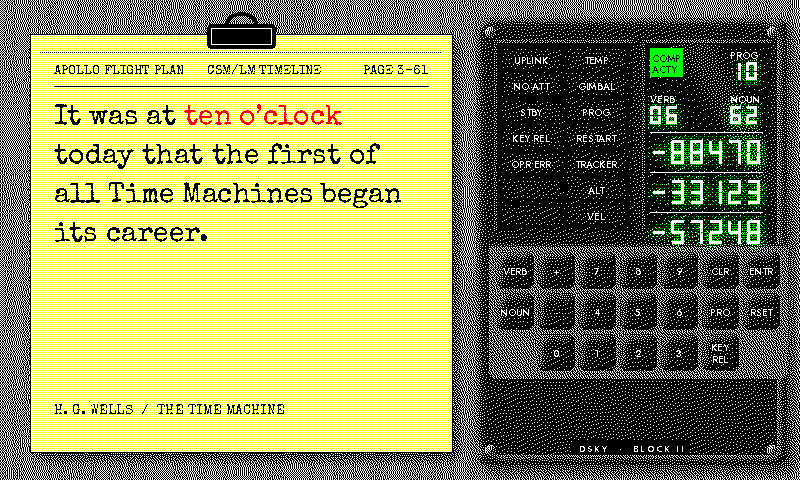
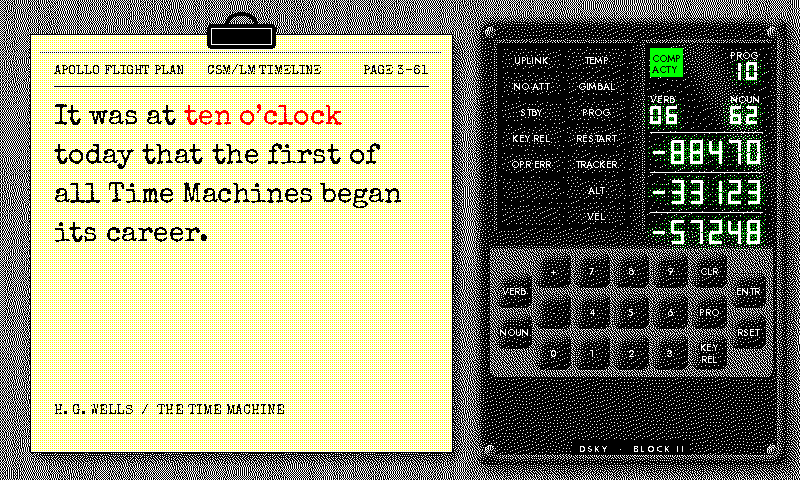
Fit the dsky keypad inside its unit (#425)

Changed region(s): [[0.5625, 0.5, 1.0, 1.0]]

diff --git a/idle_hours/render_quote/themes/dsky.py b/idle_hours/render_quote/themes/dsky.py
@@ -32,9 +32,14 @@ _DSKY_LAMP_GAP = (5, 5)
 _DSKY_LAMPS = (("UPLINK", "TEMP"), ("NO ATT", "GIMBAL"), ("STBY", "PROG"), ("KEY REL", "RESTART"),
                ("OPR ERR", "TRACKER"), ("", "ALT"), ("", "VEL"))
 _DSKY_DISPLAY_RECT = (642, 40, 770, 230)
-_DSKY_KEYPAD_ORIGIN = (497, 252)
-_DSKY_KEY = 36
+# Seven 34 px columns on a 39 px pitch, in a tray 7 px out, span 490-772: inside the
+# plate's rim (inner edge 776) and square under the windows. VERB/NOUN and ENTR/RSET
+# stand half a row down, centred on the three rows between them, as on the real unit.
+_DSKY_KEYPAD_ORIGIN = (497, 253)
+_DSKY_KEY = 34
 _DSKY_KEY_GAP = 5
+_DSKY_KEY_ROW_GAP = 7
+_DSKY_TRAY_PAD = 7
 _DSKY_KEYS = (("VERB", "+", "7", "8", "9", "CLR", "ENTR"),
               ("NOUN", "-", "4", "5", "6", "PRO", "RSET"),
               ("", "0", "1", "2", "3", "KEY\nREL", ""))
@@ -113,11 +118,13 @@ def _dsky_label_font(size: int):
 def _dsky_key_rects() -> list:
     rects = []
     ox, oy = _DSKY_KEYPAD_ORIGIN
-    k, g = _DSKY_KEY, _DSKY_KEY_GAP
+    k, g, rg = _DSKY_KEY, _DSKY_KEY_GAP, _DSKY_KEY_ROW_GAP
+    last = len(_DSKY_KEYS[0]) - 1
     for r, row in enumerate(_DSKY_KEYS):
         for c, label in enumerate(row):
             if label:
-                x, y = ox + c * (k + g), oy + r * (k + g)
+                drop = (k + rg) // 2 if c in (0, last) else 0
+                x, y = ox + c * (k + g), oy + r * (k + rg) + drop
                 rects.append((x, y, x + k, y + k, label))
     return rects
 
@@ -181,10 +188,11 @@ def _dsky_paint_unit(scene: Image.Image) -> None:
     # domes with a lit upper-left edge and a core shadow, so each key reads
     # as a dark square on the lighter tray.
     rects = _dsky_key_rects()
-    tx0 = min(r[0] for r in rects) - 8
-    ty0 = min(r[1] for r in rects) - 8
-    tx1 = max(r[2] for r in rects) + 8
-    ty1 = max(r[3] for r in rects) + 8
+    pad = _DSKY_TRAY_PAD
+    tx0 = min(r[0] for r in rects) - pad
+    ty0 = min(r[1] for r in rects) - pad
+    tx1 = max(r[2] for r in rects) + pad
+    ty1 = max(r[3] for r in rects) + pad
     draw.rounded_rectangle((tx0, ty0, tx1, ty1), radius=6, fill=_dsky_tone(0.62))
     draw.rectangle((tx0, ty0, tx1, ty0 + 2), fill=_dsky_tone(0.80))
     keys = Image.new("L", size, 0)

diff --git a/tests/test_render_quote_themes.py b/tests/test_render_quote_themes.py
@@ -7086,6 +7086,19 @@ class TestDskyFrame(_CustomFrameCase):
         assert ul > lr
         assert len(rq._dsky_key_rects()) == 19 and len(rq._dsky_lamp_rects()) == 14
 
+    def test_keypad_sits_inside_the_plate(self):
+        rects = rq._dsky_key_rects()
+        pad = rq._DSKY_TRAY_PAD
+        x0, _, x1, _ = rq._DSKY_UNIT_RECT
+        # The tray stays inside the raised rim on both sides.
+        assert min(r[0] for r in rects) - pad > x0 + rq._DSKY_RIM
+        assert max(r[2] for r in rects) + pad < x1 - rq._DSKY_RIM
+        # VERB/NOUN and ENTR/RSET are centred on the three rows between them.
+        by = {r[4]: r for r in rects}
+        middle = (by["7"][1] + by["2"][3]) / 2
+        for top, bottom in (("VERB", "NOUN"), ("ENTR", "RSET")):
+            assert abs((by[top][1] + by[bottom][3]) / 2 - middle) <= 1
+
 
 class TestOblivionFrame(_CustomFrameCase):
     """``oblivion`` — the Sky Tower's light table: dithered glass, a contour

diff --git a/docs/themes.md b/docs/themes.md
@@ -1236,6 +1236,8 @@ Imports `pick_quote` in-process (`pick_quote_module.select_quote`) and lays out 
 
     **The console is painted in continuous tone and dithered** (`_dither_calibrated`, white and black): the Apollo grey with a horizontal brushed grain, and on it the unit *modelled* rather than drawn — a raised rim shaded under the upper-left light (`_shade_silhouette`), recessed dark-glass windows with a diagonal reflection across the display, the keycaps as near-black domes with a lit edge on a recessed grey tray, screws at the corners, a soft shadow on the panel. Legends, segments and the lit COMP ACTY lamp, solid green, go on crisp after.
 
+    **The keypad fits the plate.** Seven columns of 36 px keys on a 41 px pitch, with the tray 8 px out, ran to x 787: past the rim's inner edge (776) and the unit's own (786). The keys are 34 px on a 39 px pitch and the tray 7 px out (`_DSKY_TRAY_PAD`), so it spans 490–772, square under the windows. VERB/NOUN and ENTR/RSET drop half a row (`_dsky_key_rects`), centred on the three rows between them as on the real unit; `TestDskyFrame::test_keypad_sits_inside_the_plate` holds both.
+
     **The flight plan is paper:** a cream card (white with a yellow quarter) clipped to the console with a bulldog clip, its own shadow beneath it in the scene, the quote typed on it in Special Elite — the typewriter the flight plans were cut on — in black with the matched phrase in red the way the pen-and-ink updates were.
 
     **The hour is the program:** the AGC's major modes were numbered programs and the PROG register shows the one running, here the hour 01–12; VERB 06 NOUN 62 stays up and the registers carry telemetry seeded from the quote.

diff --git a/CHANGELOG.md b/CHANGELOG.md
@@ -9,6 +9,10 @@ canonical `vMAJOR.MINOR.PATCH` Git tags; the package version omits the leading
 Add release notes here as changes merge. The release preparation tool moves
 these entries under the new dated version heading.
 
+- The `dsky` keypad fits inside its unit. Its tray ran past the plate's rim
+  and out over the console on the right; the keys are now a little narrower,
+  and VERB/NOUN and ENTR/RSET sit half a row down, centred on the rows between
+  them, as on the real DSKY.
 - The `gantry` and `platform` signs show a fraction as a mixed number: "3½"
   reads "3 1/2" instead of "312", which is all the face's missing fraction
   slash left.
